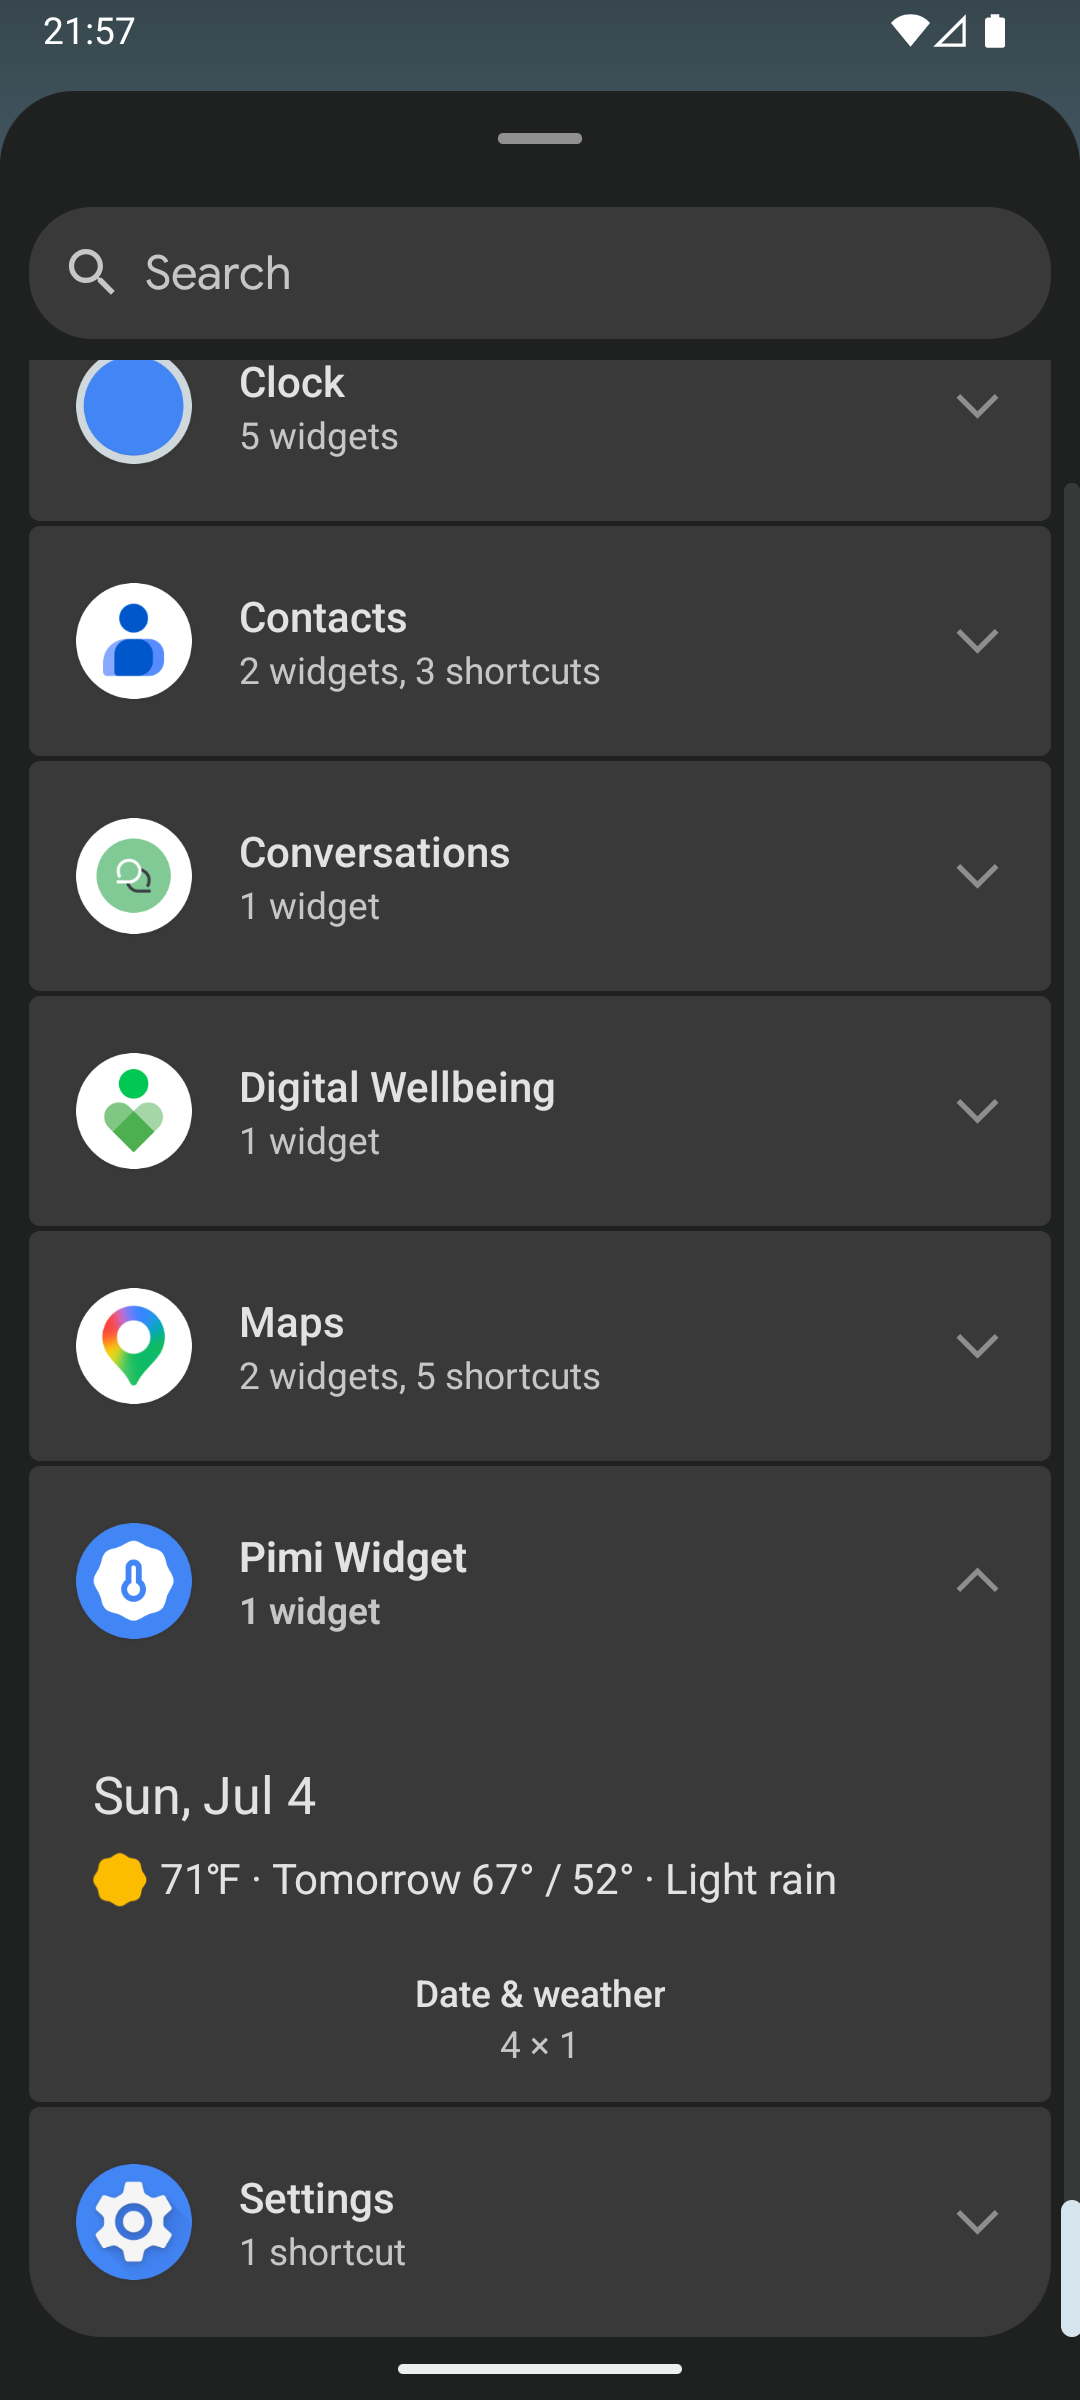
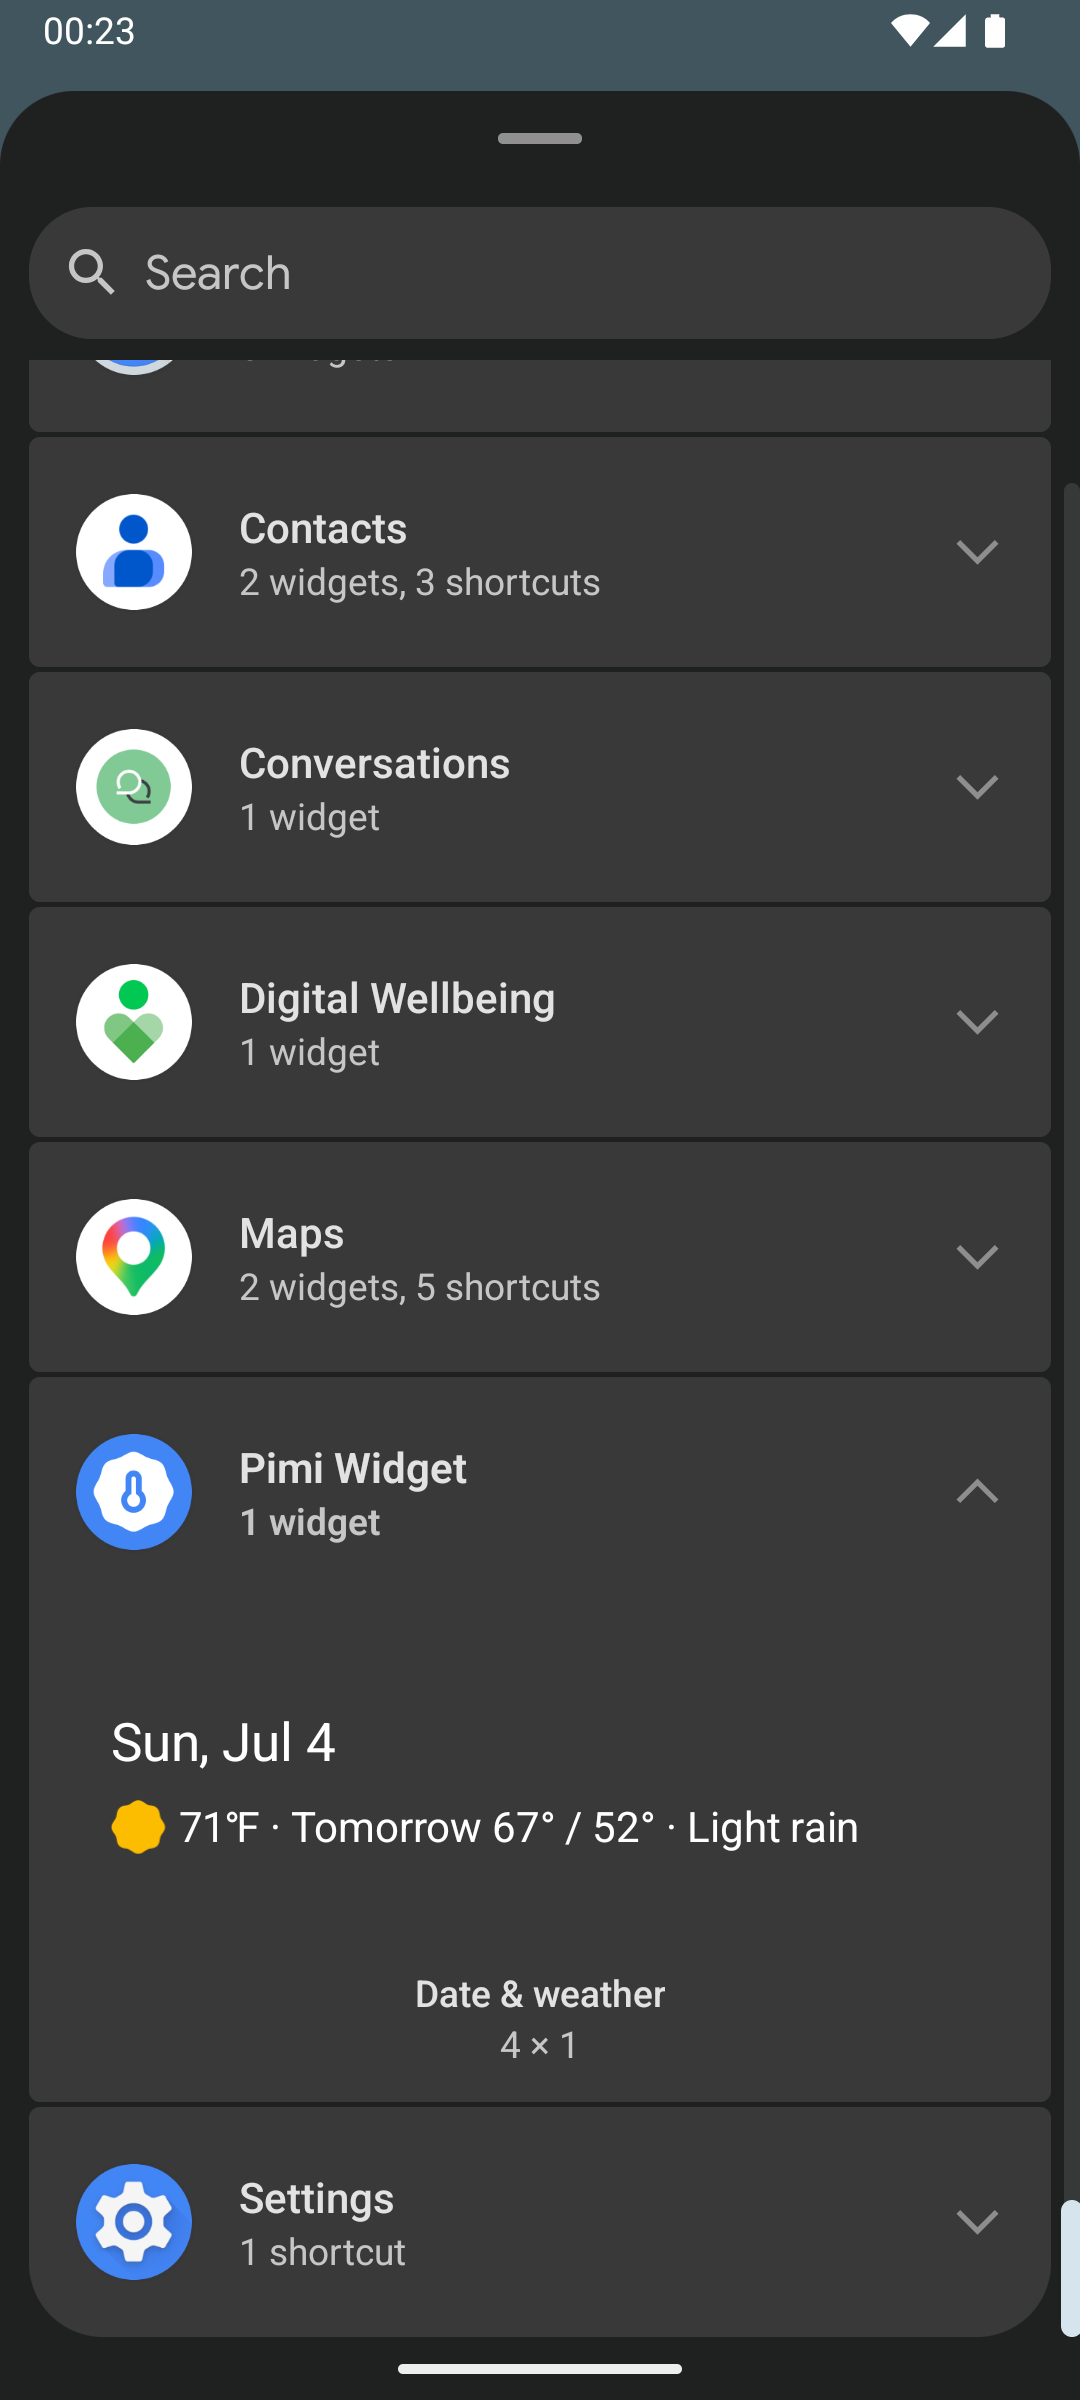
Adjust readme and screenshots

diff --git a/README.md b/README.md
@@ -8,10 +8,10 @@ Pixel-style Android widget that shows the date and weather
 
 * Displays date and weather for your current area
 * Standalone widget, no launcher icon
-* Tapping the widget opens your default weather app
+* Tapping the widget opens your favorite weather app
 * Lightweight and optimized for battery efficiency
 * Location data is shared only with the weather provider
-* No additional trackers, no ads, no Google Play dependencies
+* No trackers, no ads, no Google Play dependencies
 
 ## Download
 
@@ -53,9 +53,9 @@ In most cases, coarse location access is sufficient. For this to work, network-b
 
 ### Weather and Calendar Apps
 
-Tapping the date or weather area on the widget will open the default calendar or weather app, respectively, installed on your system. For weather apps to be compatible, they must include the `category.APP_WEATHER` intent in their manifest file.
+Tapping the date or weather area on the widget opens your calendar or weather app, respectively. Your preferred weather app can be selected in the widget settings. Weather apps must be explicitly whitelisted to be supported. If your preferred weather app is not yet supported, please [open a GitHub issue](https://github.com/kolakek/pimi-widget/issues) to have it added.
 
-Supported weather apps (among others): Google Weather, Breezy Weather.
+Currently supported weather apps: Pixel Weather, Breezy Weather, Météo-France, KNMI, DWD WarnWetter, Met Office, Aemet, MeteoSwiss, Yr, BOM Weather, WeatherCAN, DMI Vejr.
 
 ### Weather Alerts
 